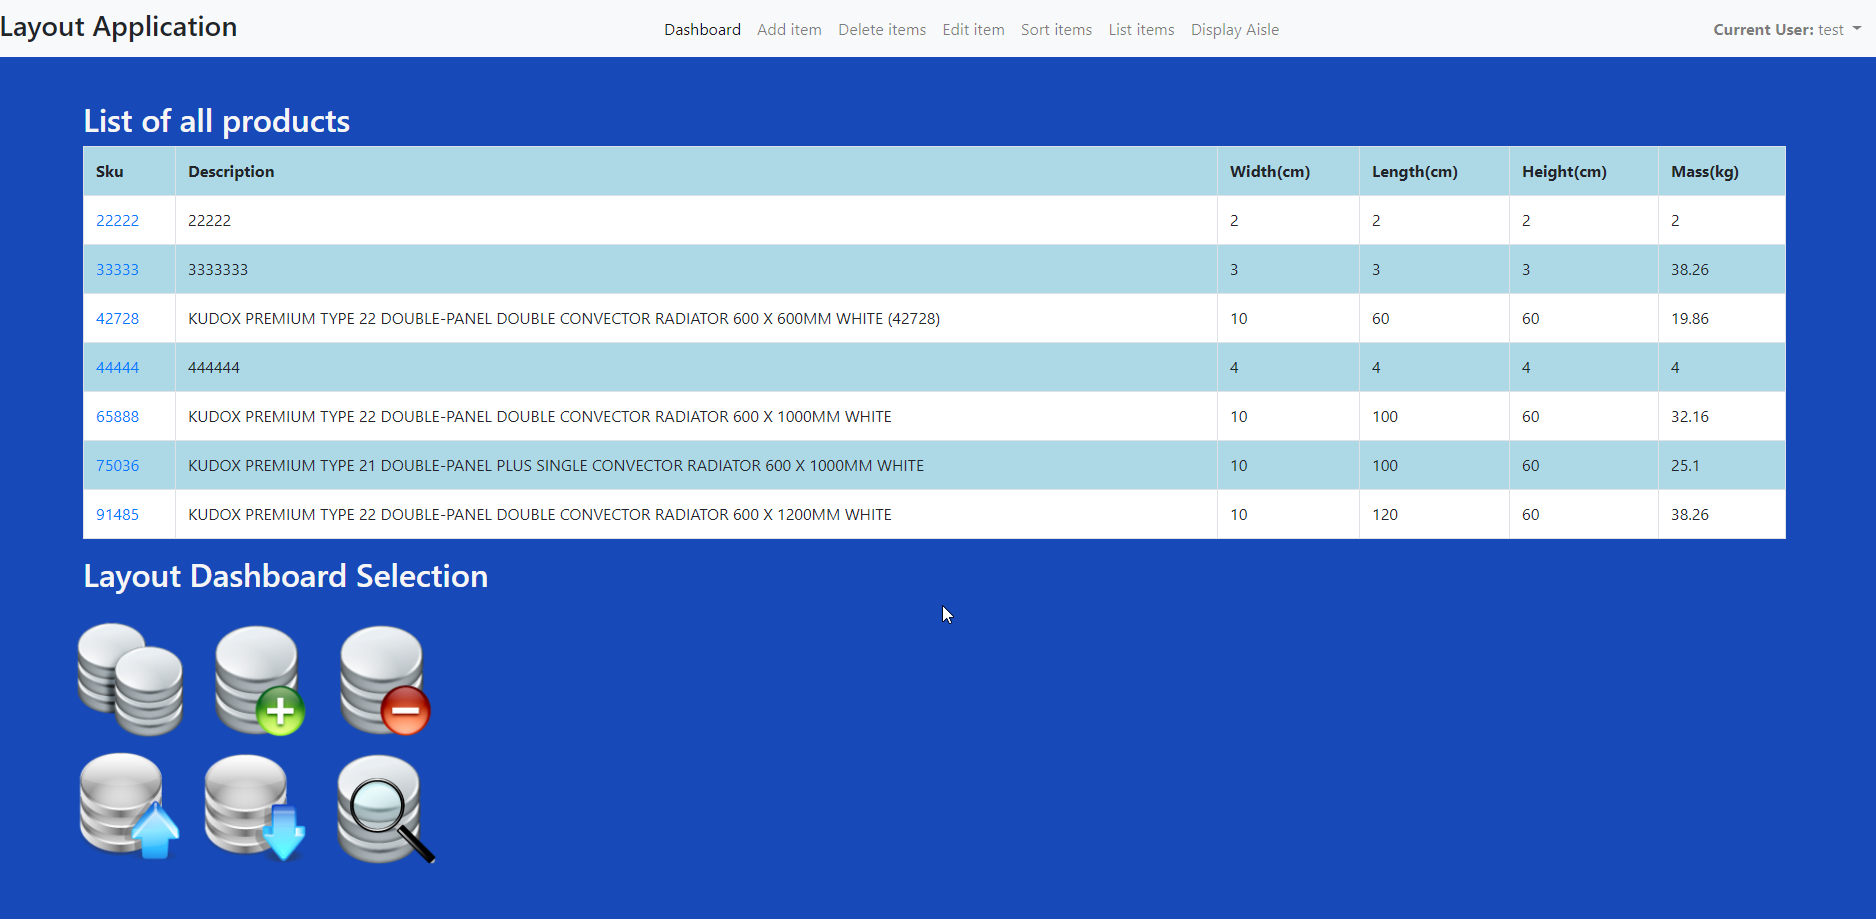
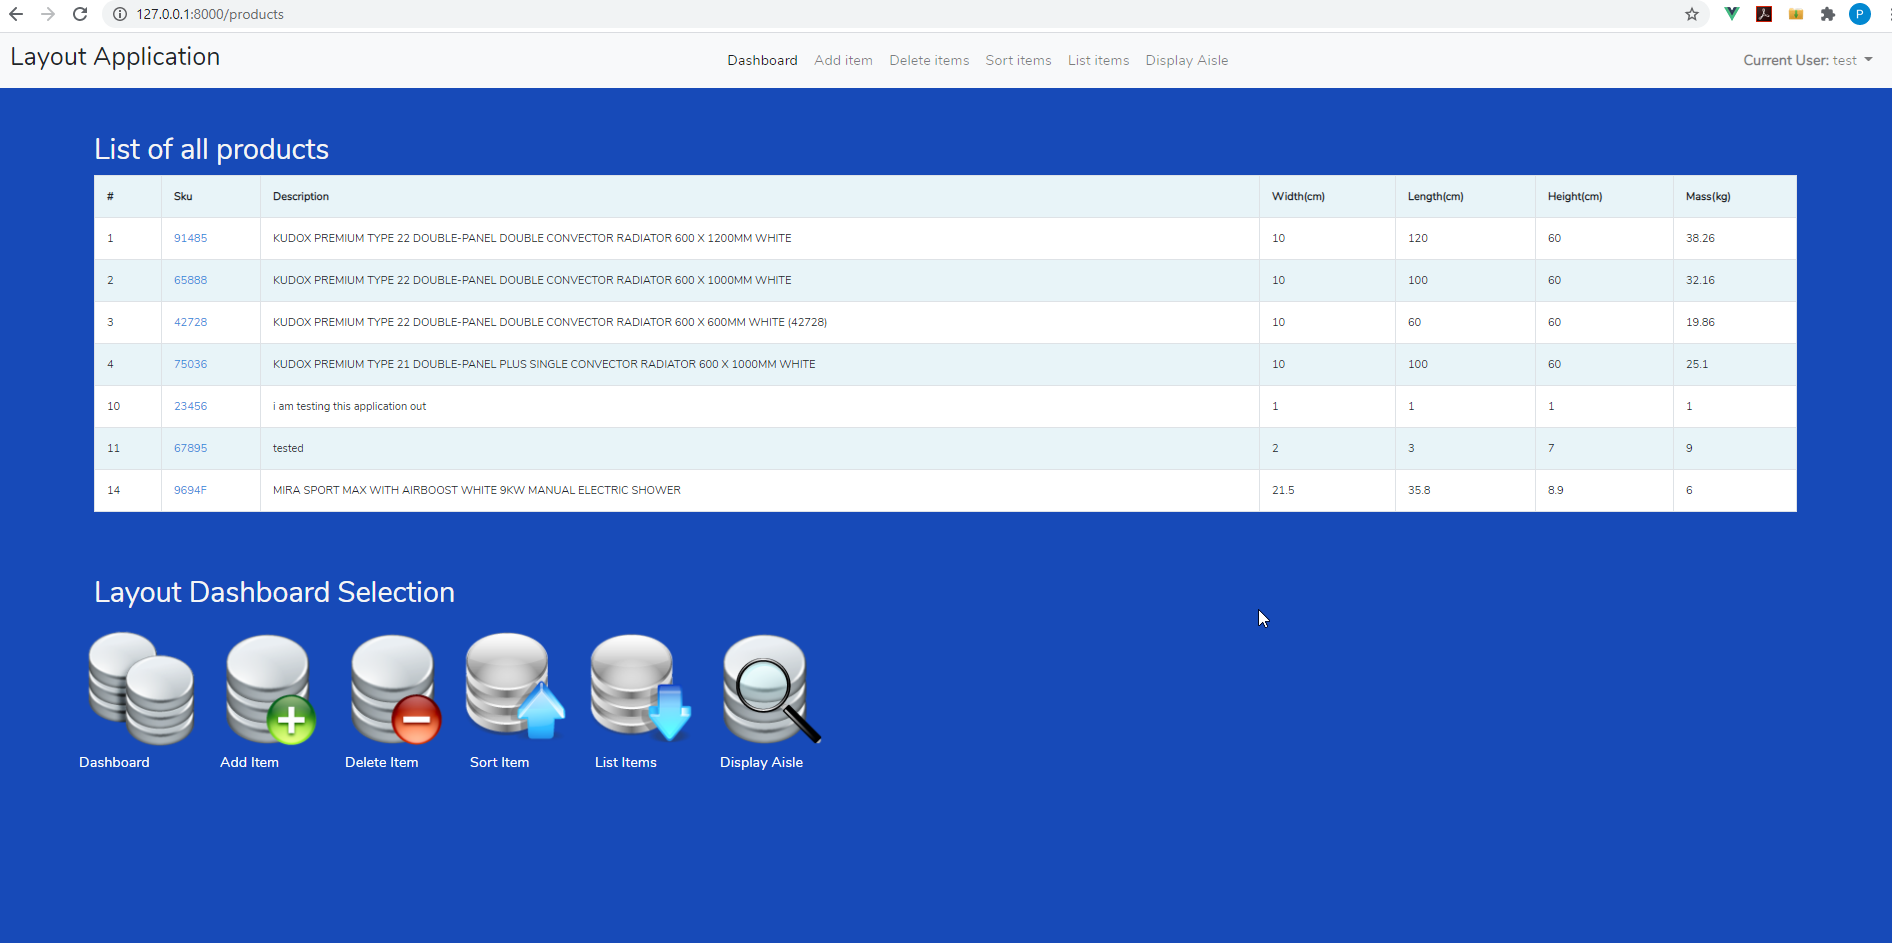
added image to readme

diff --git a/README.md b/README.md
@@ -6,4 +6,5 @@ Stock Management and its efficient movement is one of the biggest challenges fac
 size of a product to assist in streamlining the picking process.
 
 
-
+Screenshot of List all Products Page
+![List Products](https://github.com/Tarnvedra/Warehouse-layout/blob/master/public/images/list.png)
